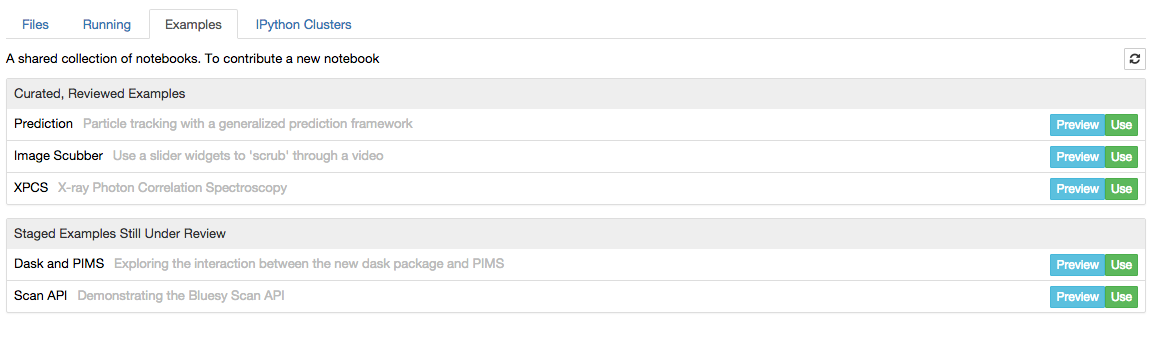
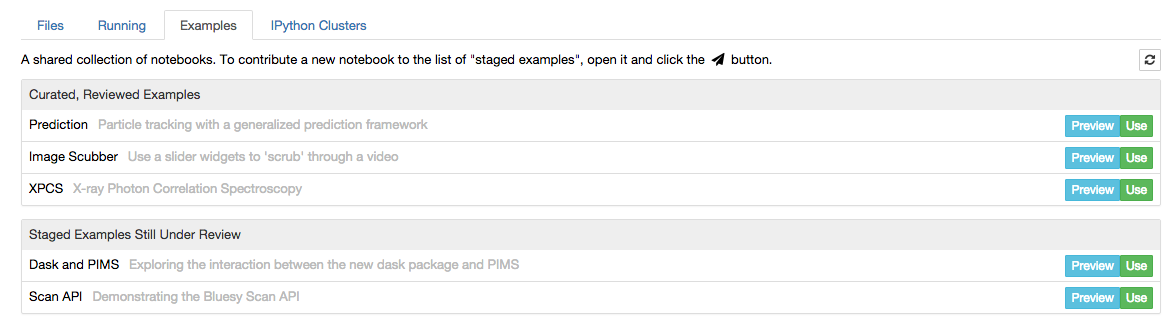
Add instructions for contributing notebooks.

diff --git a/nbexamples/static/main.js b/nbexamples/static/main.js
@@ -7,7 +7,7 @@ define(function(require) {
         '<div id="examples" class="tab-pane">',
         '  <div id="examples_toolbar" class="row list_toolbar">',
         '    <div class="col-sm-8 no-padding">',
-        '      <span id="examples_list_info" class="toolbar_info">A shared collection of notebooks. To contribute a new notebook</span>',
+        '      <span id="examples_list_info" class="toolbar_info">A shared collection of notebooks. To contribute a new notebook to the list of "staged examples", open it and click the <span class="fa fa-send" style="margin: 3px;"></span> button.</span>',
         '    </div>',
         '    <div class="col-sm-4 no-padding tree-buttons">',
         '      <span id="examples_buttons" class="pull-right toolbar_buttons">',

diff --git a/README.md b/README.md
@@ -22,12 +22,12 @@ including some example output.
 Clicking "use" opens a dialog box to prompt user for a filename or filepath
 (relative to their home dir).
 
-[!Fetch](docs/fetch-dialog.png)
+![Fetch](docs/fetch-dialog.png)
 
 On the notebook toolbar, a new "share as example" button (the "paper airplane"
 icon at right) submits the notebook to the list of "unreviewed" examples.
 
-[!Share as Example button](docs/share-button.png)
+![Share as Example button](docs/share-button.png)
 
 ### URL scheme
 
